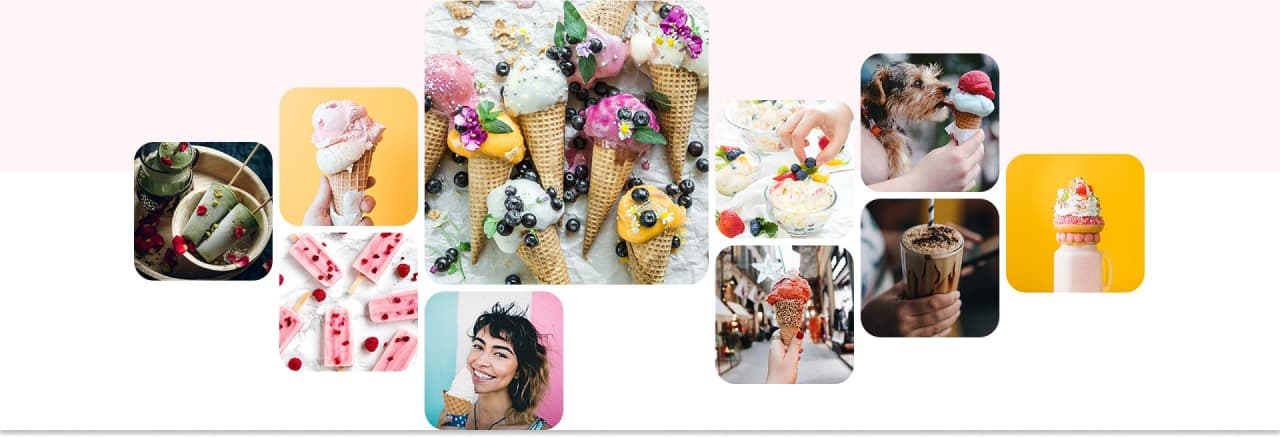
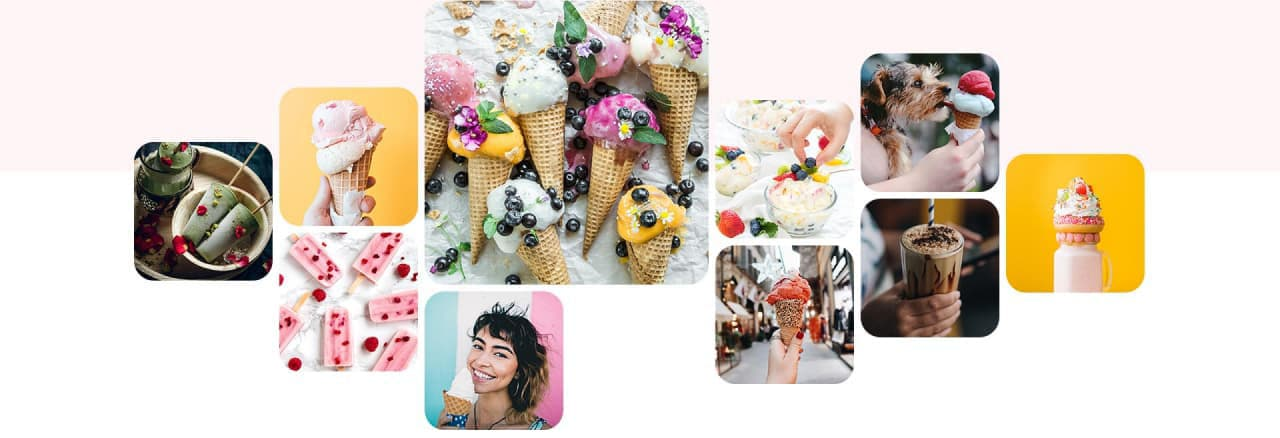
fixed gallery

Changed region(s): [[0.0, 0.9795, 1.0, 1.0]]

diff --git a/src/sass/layouts/_gallery.scss b/src/sass/layouts/_gallery.scss
@@ -8,6 +8,30 @@
 
   background-size: cover;
   padding-bottom: 86px;
+
+  @media screen and (max-width: 767px) {
+    background-image: linear-gradient(
+      to bottom,
+      $section-dark-background 23%,
+      $light-text-color 23%
+    );
+  }
+
+  @media screen and (min-width: 768px) {
+    background-image: linear-gradient(
+      to bottom,
+      $section-dark-background 30%,
+      $light-text-color 30%
+    );
+  }
+
+  @media screen and (min-width: 1230px) {
+    background-image: linear-gradient(
+      to bottom,
+      $section-dark-background 32.5%,
+      $light-text-color 32.5%
+    );
+  }
 }
 
 .gallery__container {
